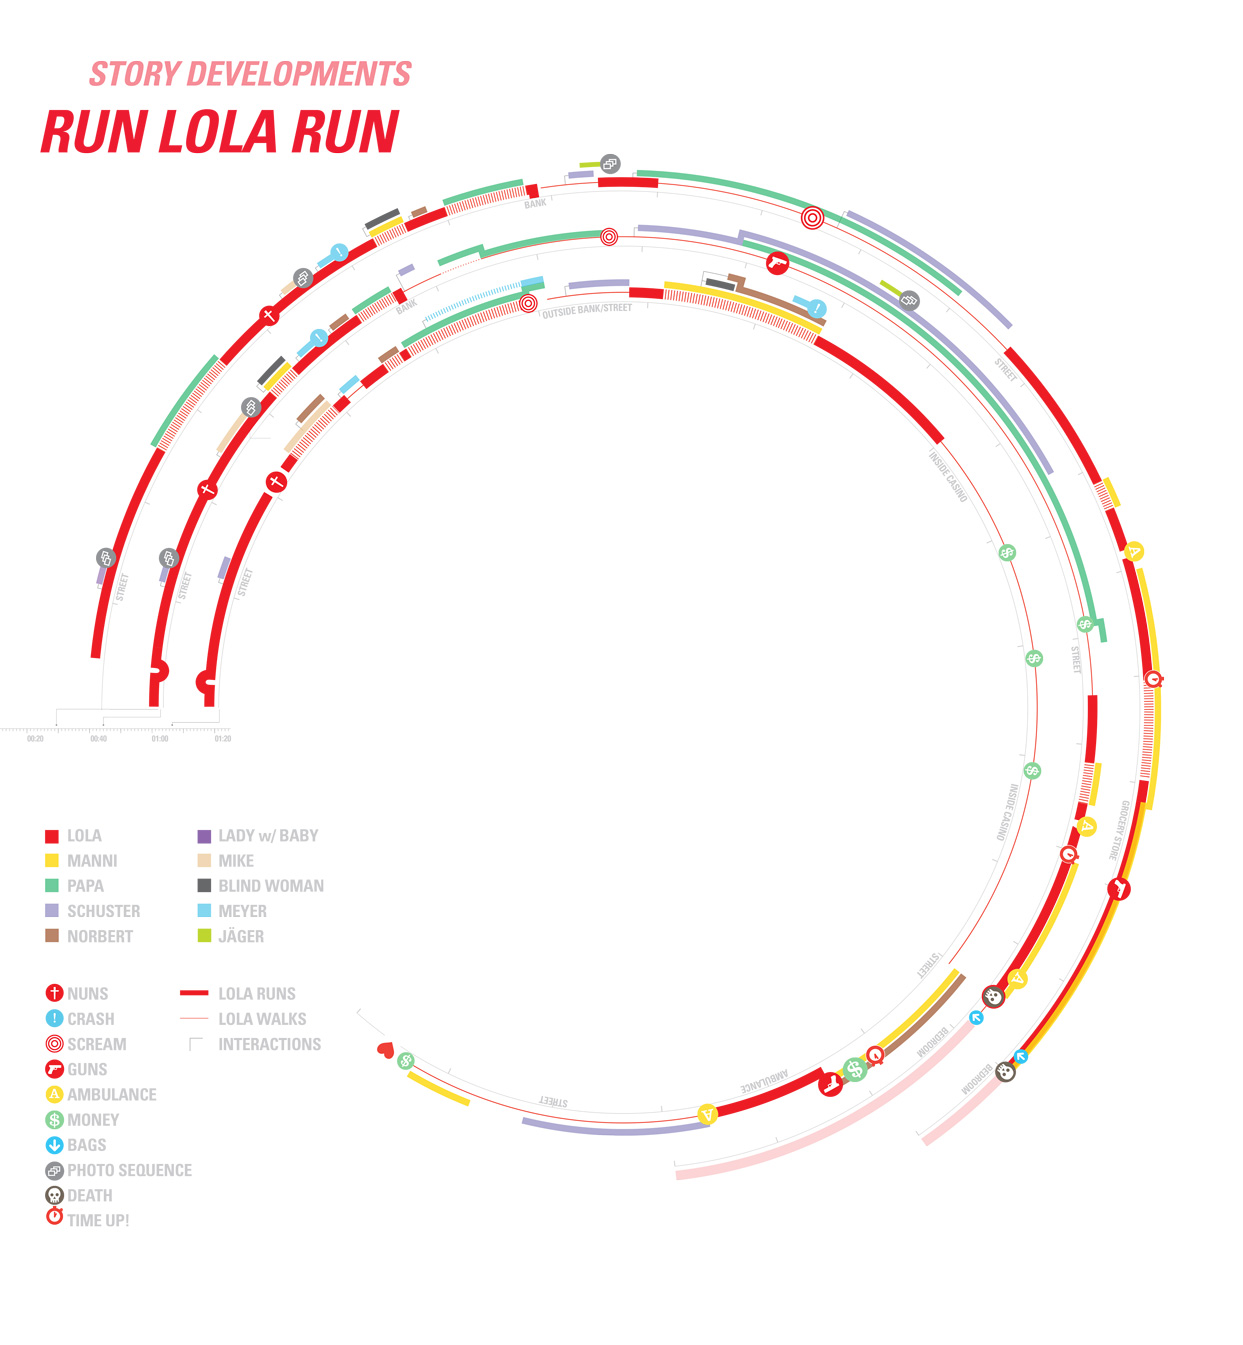
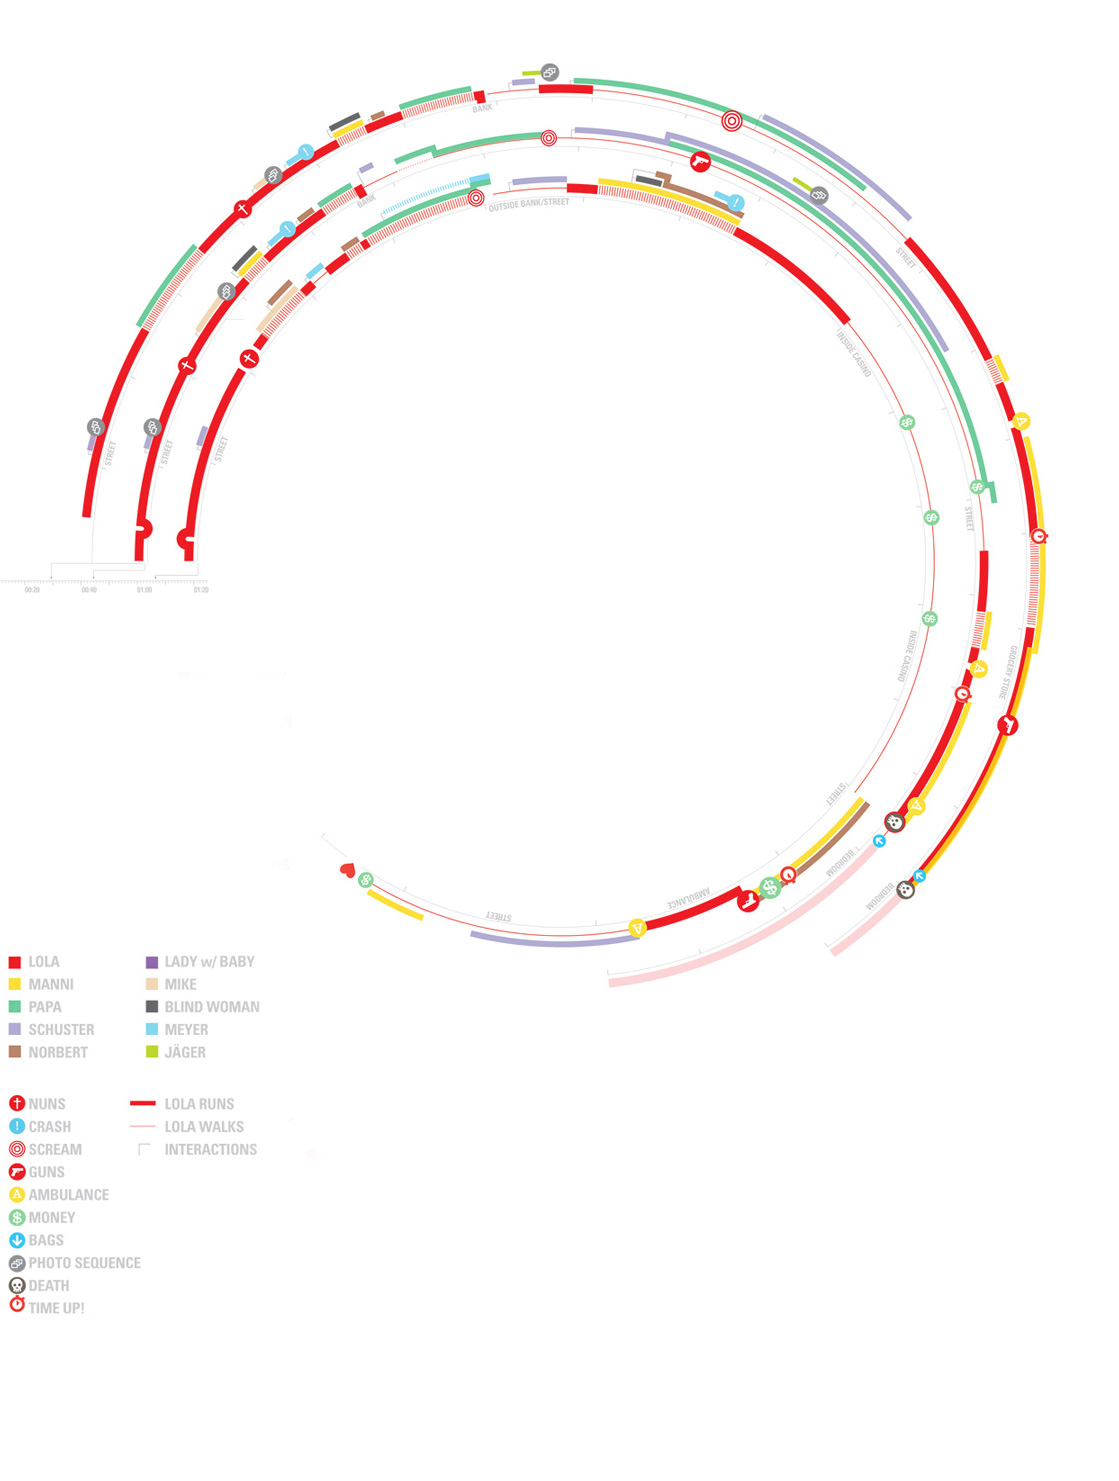
added lola runs project

diff --git a/_site/pagescreen/2014/03/23/lola-runs.html b/_site/pagescreen/2014/03/23/lola-runs.html
@@ -6,7 +6,7 @@
     <meta name="description" content="">
     <meta name="author" content="">
 
-    <title>Page and Screen</title>
+    <title>Run Lola Run</title>
 
     <!-- Bootstrap core CSS -->
     <link href="/css/bootstrap.css" rel="stylesheet">
@@ -19,10 +19,11 @@
 </head>
     <body>
       <div id="wrapper">
-        <!-- Sidebar -->
+
+<!-- Sidebar -->
         <div id="sidebar-wrapper">
             <ul class="sidebar-nav">
-                  <li class="sidebar-brand"><a href="/index.html"><i class="fa fa-asterisk fa-lg text-left" style="display:inline;"></i></a></li>
+                    <li class="sidebar-brand"><a href="/index.html"><i class="fa fa-asterisk fa-lg text-left" style="display:inline;"></i></a></li>
             
               
                 <li class="sidebar-nav-this">
@@ -39,8 +40,9 @@
               
             
                 <li class="sidebar-brand"></li>
-                <li class="sidebar-brand"><a href=""><i class="fa fa-th-large text-left" style="display:inline;"></i></a></li>            
-                
+                  <li class="sidebar-brand"><a href=""><i class="fa fa-th-large text-left" style="display:inline;"></i></a></li>
+                    
+            
             
             
                 
@@ -57,14 +59,14 @@
             
                 
              <li class="sidebar-nav-this">
-                <a href="/_pages/neologisms.html"><h4 class="small">Neologisms</h4></a>
+            <a href=""><h4 class="small">Neologisms</h4></a>
                 </li>
                 
             
             
             
              <li class="sidebar-nav-this">
-                <a href="/_pages/pagescreen.html"><h4 class="small">Page and Screen</h4></a>
+                <a href="/_pages/pagescreen.html"><h4 class="small" style="color:#ACBABF;background:#000000;">Page and Screen</h4></a>
                 </li>
                 
                 
@@ -74,22 +76,12 @@
                 
             
             <li class="sidebar-brand"></li>
-                <li class="sidebar-brand"><a href=""><i class="fa fa-th text-left" style="display:inline;"></i></a></li>
+                <li class="sidebar-brand"><a href=""><i class="fa fa-th text-left" style="display:inline;"></i></a></li>  
             
              
             
             
-                  <li><a href="/pagescreen/2014/03/29/plantchicago-identity.html"><h4 class="small">PlantChicago</h4></a>  
-                 
-            
-             
-            
-             
-            
-            
-                  <li><a href="/pagescreen/2014/03/26/order-of-things.html"><h4 class="small">Order of Things</h4></a>  
-                 
-            
+                  <li><a href="/pagescreen/2014/03/29/plantchicago-identity.html"><h4 class="small">PlantChicago</h4></a> 
              
             
              
@@ -97,78 +89,62 @@
              
             
             
-                  <li><a href="/pagescreen/2014/03/26/print-capitalism.html"><h4 class="small">Print Capitalism</h4></a>  
-                 
+                  <li><a href="/pagescreen/2014/03/26/order-of-things.html"><h4 class="small">Order of Things</h4></a> 
+             
             
+             
             
-                  <li><a href="/pagescreen/2014/03/26/drawings-for-openlab.html"><h4 class="small">OpenLab Identity</h4></a>  
-                 
+             
             
              
             
             
-                  <li><a href="/pagescreen/2014/03/26/fnewsmagazine.html"><h4 class="small">Fnewsmagazine</h4></a>  
-                 
+                  <li><a href="/pagescreen/2014/03/26/print-capitalism.html"><h4 class="small">Print Capitalism</h4></a> 
+             
             
             
-                  <li><a href="/pagescreen/2014/03/23/lola-runs.html"><h4 class="small">Run Lola Run</h4></a>  
-                 
+                  <li><a href="/pagescreen/2014/03/26/drawings-for-openlab.html"><h4 class="small">OpenLab Identity</h4></a> 
+             
             
-        </div>
+             
+            
+            
+                  <li><a href="/pagescreen/2014/03/26/fnewsmagazine.html"><h4 class="small">Fnewsmagazine</h4></a> 
+             
+            
+            
+                  <li><a href="/pagescreen/2014/03/23/lola-runs.html"><h4 class="small">Run Lola Run</h4></a> 
+             
+            
 
-   
-                
+            </ul>
+        </div>
         <!-- Page content -->
         <div id="page-content-wrapper">
             <div class="content-header">
               <h1><a id="menu-toggle" href="#" class="btn btn-default">
-                <i class="fa fa-align-justify fa-lg"></i></a>Page and Screen</h1>
+                <i class="fa fa-align-justify fa-lg"></i></a>Run Lola Run</h1>
             </div>
-     
-
        <!-- Keep all page content within the page-content inset div! -->
             <div class="page-content inset">
-                   <div class="row">
-            <div class="col-md-9">
-                <p class="lead"><div class="page-content inset">
+                   <div class="page-content inset">
 <div class="row">
-    <div class="col-md-12">
-		<a href="http://magplease.com/pagescreen/2014/03/26/fnewsmagazine.html"><img src="/imgs/page-and-screen1.jpg"></a>
-	</div>
-	 <div class="col-md-12">
-		<img src="/imgs/page-and-screen2.jpg">
-	</div>
-	 <div class="col-md-12">
-		<img src="/imgs/page-and-screen3.jpg">
-	</div>
-	
-	 <div class="col-md-12">
-		<img src="/imgs/page-and-screen5.jpg">
-	</div>
-	   <div class="col-md-12">
-		<img style="padding-bottom:100px;" src="/imgs/page-and-screen6.jpg">
-	</div>
-	 
-	 <div class="col-md-12">
-		<img src="/imgs/page-and-screen8.jpg">
-	</div>
-	 <div class="col-md-12">
-	 	<img src="/imgs/page-and-screen9.jpg">
-
-		<img src="/imgs/page-and-screen10.gif">
-	</div>
-
-</div>
-</div></p>
+    <div class="row">
+            <div class="col-md-9">
+                <p class="lead">This infographic visualizes the German films spiraling 3-part dash to an uncertain finish.</p>
             </div>
         </div>
-                <div class="row">
-                      
-                </div>
-            </div>
+    <div class="col-md-12">
+        <img class="img-responsive-pad" src="/imgs/lola1.jpg"></div>
+    
+</div>
+
+<p></div></p>
+
+        </div>
         </div>
     </div>
-<!-- JavaScript -->
+    <!-- JavaScript -->
     <script src="/js/jquery-1.10.2.js"></script>
     <script src="/js/bootstrap.js"></script>
 
@@ -179,5 +155,6 @@
         $("#wrapper").toggleClass("active");
     });
     </script>
+
     </body>
 </html>

diff --git a/_site/_pages/contact.html b/_site/_pages/contact.html
@@ -57,7 +57,7 @@
             
                 
              <li class="sidebar-nav-this">
-                 <a href=""><h4 class="small">Neologisms</h4></a>
+                 <a href=/_pages/neologisms.html><h4 class="small">Neologisms</h4></a>
                 </li>
                 
             
@@ -98,6 +98,10 @@
    <p class="lead"><a href="mailto:magda.wistuba@gmail.com?Subject=hello%20please">Send an email</a> at magda.wistuba@gmail.com.<br>
    <a href="http://twitter.com/magplease">Follow along on Twitter.</a><br>
    <a href="http://github.com/manzalena">Do the GitHub.</a>
+
+   <div class="col-md-12">
+                 <img class="img-responsive-pad" src="/imgs/thankyou.png"></div>
+        </div>
 </div>
 </div>
 

diff --git a/_site/neologisms/2014/03/29/handrawritings.html b/_site/neologisms/2014/03/29/handrawritings.html
@@ -103,6 +103,8 @@
             
              
             
+             
+            
 
             </ul>
         </div>
@@ -118,7 +120,7 @@
 <div class="row">
     <div class="row">
             <div class="col-md-9">
-                <p class="lead">Illustrations for a growing index of invented words.</p>
+                <p class="lead">Illustrations for a growing index of invented language.</p>
             </div>
         </div>
     <div class="col-md-12">
@@ -138,7 +140,7 @@
 
 <p></div></p>
 
-        </div>s
+            
         </div>
     </div>
     <!-- JavaScript -->

diff --git a/_pages/contact.html b/_pages/contact.html
@@ -13,5 +13,9 @@ section:   contact
    <p class="lead"><a href="mailto:magda.wistuba@gmail.com?Subject=hello%20please">Send an email</a> at magda.wistuba@gmail.com.<br>
    <a href="http://twitter.com/magplease">Follow along on Twitter.</a><br>
    <a href="http://github.com/manzalena">Do the GitHub.</a>
+
+   <div class="col-md-12">
+                 <img class="img-responsive-pad" src="/imgs/thankyou.png"></div>
+        </div>
 </div>
 </div>

diff --git a/_includes/home_sidebar.html b/_includes/home_sidebar.html
@@ -24,7 +24,7 @@
                 {% endif %}
                 {% if page.section == "neologisms" %}
              <li class="sidebar-nav-this">
-                 <a href=""><h4 class="small">{{ page.title }}</h4></a>
+                 <a href={{page.url}}><h4 class="small">{{ page.title }}</h4></a>
                 </li>
                 {% endif %}
             {% endfor %}

diff --git a/_site/pagescreen/2014/03/26/drawings-for-openlab.html b/_site/pagescreen/2014/03/26/drawings-for-openlab.html
@@ -112,6 +112,10 @@
                   <li><a href="/pagescreen/2014/03/26/fnewsmagazine.html"><h4 class="small">Fnewsmagazine</h4></a> 
              
             
+            
+                  <li><a href="/pagescreen/2014/03/23/lola-runs.html"><h4 class="small">Run Lola Run</h4></a> 
+             
+            
 
             </ul>
         </div>

diff --git a/_site/pagescreen/2014/03/26/fnewsmagazine.html b/_site/pagescreen/2014/03/26/fnewsmagazine.html
@@ -112,6 +112,10 @@
                   <li><a href="/pagescreen/2014/03/26/fnewsmagazine.html"><h4 class="small">Fnewsmagazine</h4></a> 
              
             
+            
+                  <li><a href="/pagescreen/2014/03/23/lola-runs.html"><h4 class="small">Run Lola Run</h4></a> 
+             
+            
 
             </ul>
         </div>

diff --git a/_site/pagescreen/2014/03/26/order-of-things.html b/_site/pagescreen/2014/03/26/order-of-things.html
@@ -112,6 +112,10 @@
                   <li><a href="/pagescreen/2014/03/26/fnewsmagazine.html"><h4 class="small">Fnewsmagazine</h4></a> 
              
             
+            
+                  <li><a href="/pagescreen/2014/03/23/lola-runs.html"><h4 class="small">Run Lola Run</h4></a> 
+             
+            
 
             </ul>
         </div>

diff --git a/_site/pagescreen/2014/03/26/print-capitalism.html b/_site/pagescreen/2014/03/26/print-capitalism.html
@@ -112,6 +112,10 @@
                   <li><a href="/pagescreen/2014/03/26/fnewsmagazine.html"><h4 class="small">Fnewsmagazine</h4></a> 
              
             
+            
+                  <li><a href="/pagescreen/2014/03/23/lola-runs.html"><h4 class="small">Run Lola Run</h4></a> 
+             
+            
 
             </ul>
         </div>

diff --git a/_site/pagescreen/2014/03/29/plantchicago-identity.html b/_site/pagescreen/2014/03/29/plantchicago-identity.html
@@ -112,6 +112,10 @@
                   <li><a href="/pagescreen/2014/03/26/fnewsmagazine.html"><h4 class="small">Fnewsmagazine</h4></a> 
              
             
+            
+                  <li><a href="/pagescreen/2014/03/23/lola-runs.html"><h4 class="small">Run Lola Run</h4></a> 
+             
+            
 
             </ul>
         </div>

diff --git a/_site/index.html b/_site/index.html
@@ -57,7 +57,7 @@
             
                 
              <li class="sidebar-nav-this">
-                 <a href=""><h4 class="small">Neologisms</h4></a>
+                 <a href=/_pages/neologisms.html><h4 class="small">Neologisms</h4></a>
                 </li>
                 
             

diff --git a/_layouts/neologisms-post.html b/_layouts/neologisms-post.html
@@ -15,7 +15,7 @@
        <!-- Keep all page content within the page-content inset div! -->
             <div class="page-content inset">
                    {{content}}
-        </div>s
+            
         </div>
     </div>
     <!-- JavaScript -->
